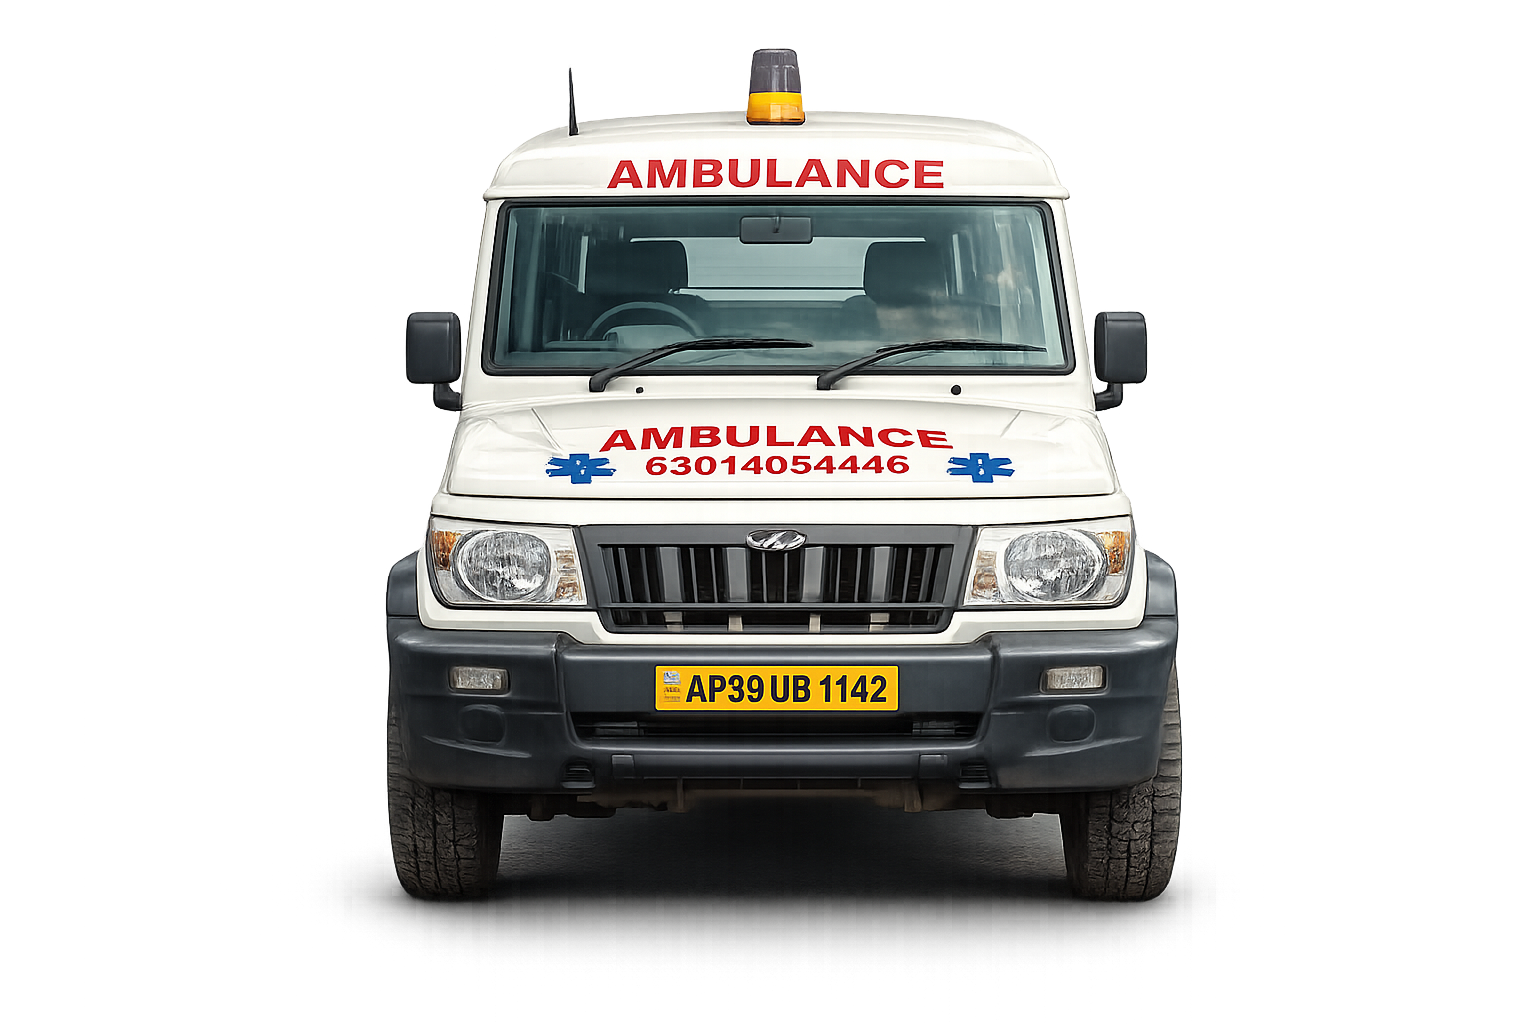
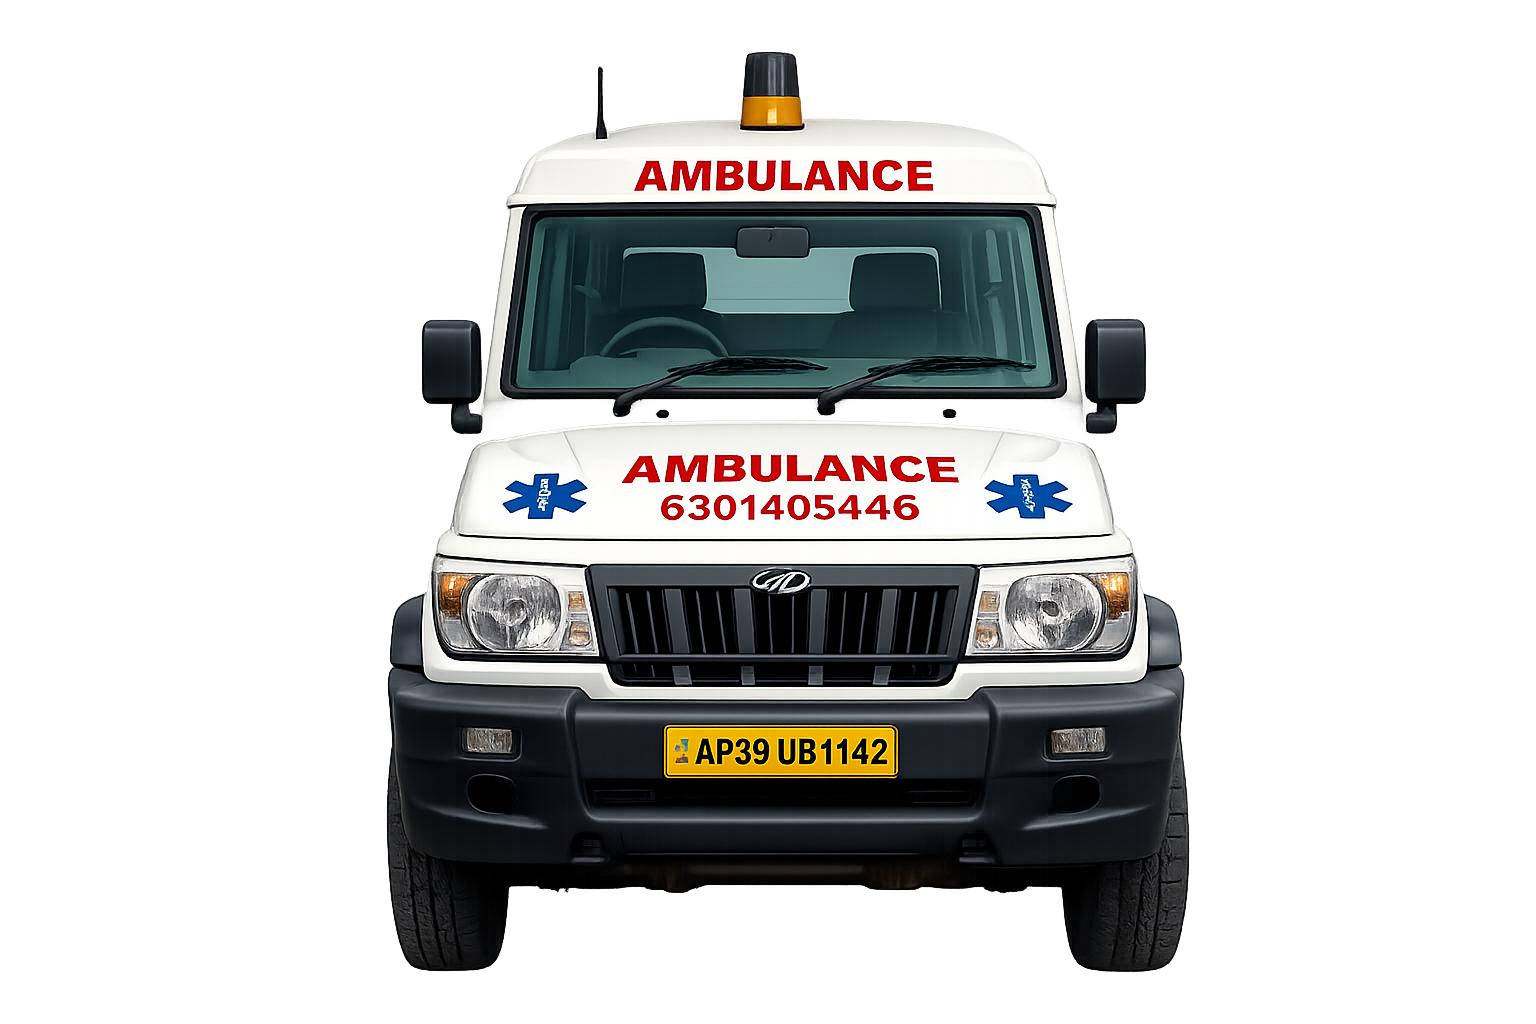
feat: add site configuration and implement emergency SOS mode with floating action buttons

Changed region(s): [[0.2188, 0.0312, 0.7812, 0.9688]]

diff --git a/src/components/modals/EmergencyMode.tsx b/src/components/modals/EmergencyMode.tsx
@@ -71,7 +71,7 @@ export const EmergencyMode: React.FC = () => {
           </p>
 
           <a 
-            href={`tel:${siteConfig.contact.emergencyPhoneRaw}`} 
+            href={`tel:${siteConfig.contact.sosPhoneRaw}`} 
             className="relative overflow-hidden group bg-red-600 text-white p-6 rounded-3xl flex flex-col items-center justify-center gap-3 shadow-[0_10px_40px_rgba(220,38,38,0.3)] transition-all hover:scale-105 active:scale-95 border border-red-500"
           >
             {/* Radar Sweep Effect */}
@@ -79,7 +79,7 @@ export const EmergencyMode: React.FC = () => {
             
             <PhoneCall className="w-10 h-10 animate-bounce" />
             <span className="font-black text-2xl md:text-3xl tracking-wider">CALL NOW</span>
-            <span className="text-red-200 text-sm font-bold tracking-widest uppercase opacity-80">{siteConfig.contact.emergencyPhone}</span>
+            <span className="text-red-200 text-sm font-bold tracking-widest uppercase opacity-80">{siteConfig.contact.sosPhone}</span>
           </a>
           
           <div className="grid grid-cols-2 gap-4 mt-2">

diff --git a/src/components/molecules/FloatingActions.tsx b/src/components/molecules/FloatingActions.tsx
@@ -4,7 +4,7 @@ import { siteConfig } from '../../data/siteConfig';
 
 export const FloatingActions: React.FC = () => {
   const handleCall = () => {
-    window.location.href = `tel:${siteConfig.contact.emergencyPhoneRaw}`;
+    window.location.href = `tel:${siteConfig.contact.sosPhoneRaw}`;
   };
 
   const handleWhatsApp = () => {

diff --git a/src/data/siteConfig.ts b/src/data/siteConfig.ts
@@ -5,6 +5,8 @@ export const siteConfig = {
   contact: {
     emergencyPhone: '+91 63014 05446',
     emergencyPhoneRaw: '+916301405446',
+    sosPhone: '+91 78160 84332',
+    sosPhoneRaw: '+917816084332',
     secondaryPhone: '+91 63014 05446',
     secondaryPhoneRaw: '+916301405446',
     whatsapp: '+91 63014 05446',
